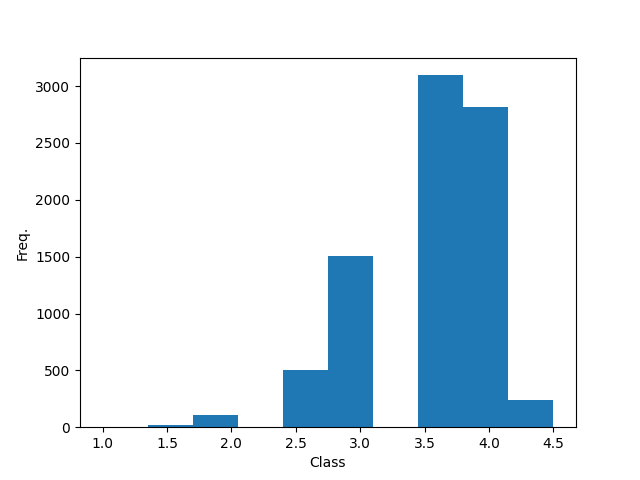
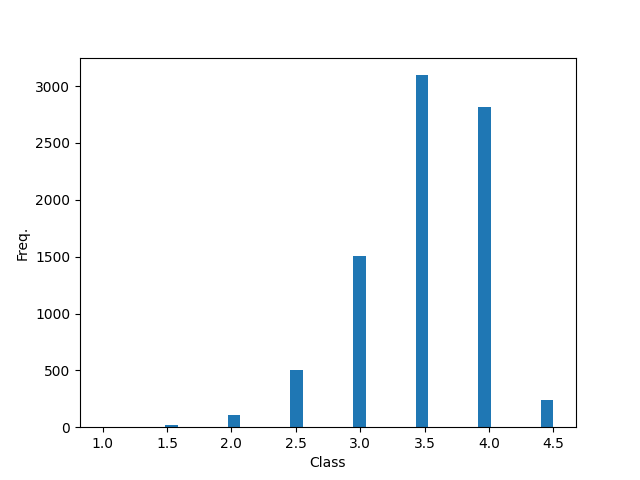
Modified bins

Changed region(s): [[0.6562, 0.1562, 0.8438, 0.9062], [0.4375, 0.5312, 0.5938, 0.9062], [0.2812, 0.8438, 0.375, 0.9062]]

diff --git a/main.py b/main.py
@@ -92,7 +92,7 @@ def dim_reduction(X_train, X_val, X_test):
 
 def resample_data(X_train, y_train, encoder) -> Tuple[pd.DataFrame, pd.Series]:
     logging.info("Resampling data")
-    figure = plt.hist(encoder.inverse_transform(y_train))
+    figure = plt.hist(encoder.inverse_transform(y_train), bins="auto")
     xy_labels = ["Class", "Freq."]
     plot(figure, xy_labels, "bef_resample")
     count = np.unique(encoder.inverse_transform(y_train), return_counts=True)
